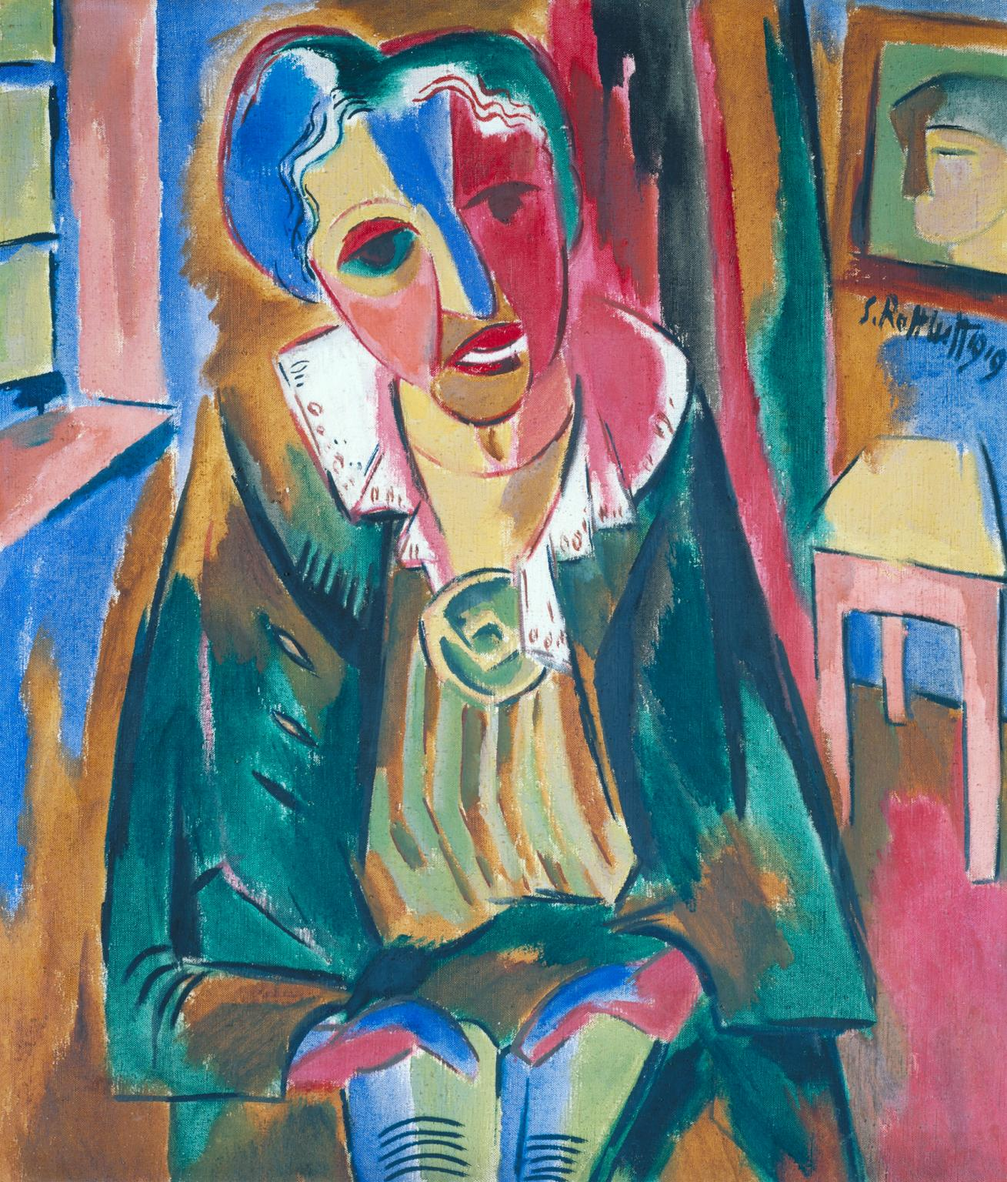
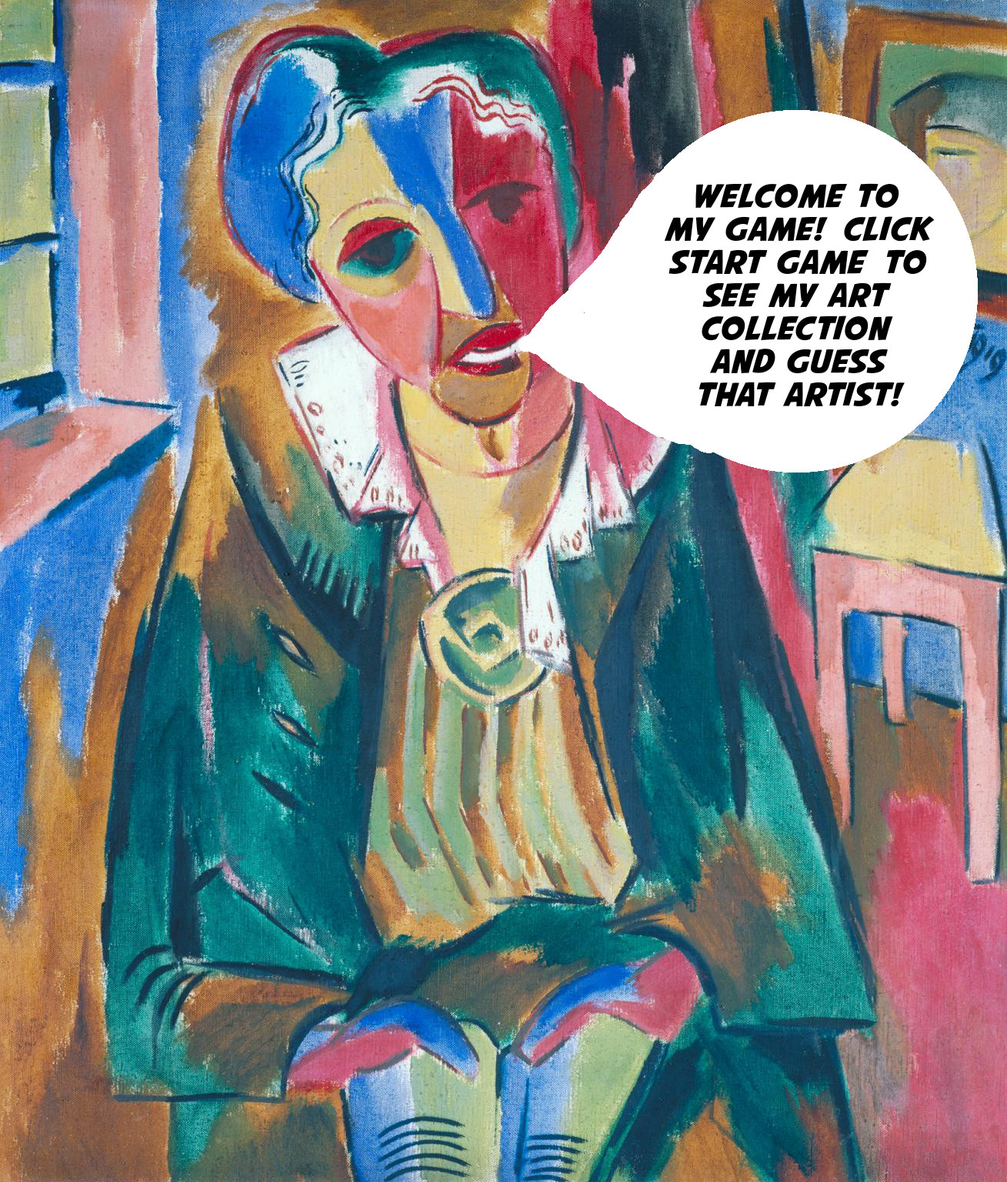
new landing image

Changed region(s): [[0.5195, 0.0938, 0.9778, 0.4062]]

diff --git a/index.html b/index.html
@@ -6,8 +6,7 @@
   <title>Hangman</title>
   <link rel="stylesheet" href="https://maxcdn.bootstrapcdn.com/bootstrap/3.3.7/css/bootstrap.min.css" integrity="sha384-BVYiiSIFeK1dGmJRAkycuHAHRg32OmUcww7on3RYdg4Va+PmSTsz/K68vbdEjh4u" crossorigin="anonymous">
 
-  <link rel="stylesheet" href="assets/css/style.css"
-   type:"text/css">
+  <link rel="stylesheet" href="assets/css/style.css" type:"text/css">
    <link href="https://fonts.googleapis.com/css?family=Pacifico|Special+Elite" rel="stylesheet">
    <link href="https://fonts.googleapis.com/css?family=Special+Elite" rel="stylesheet">
 </head>
